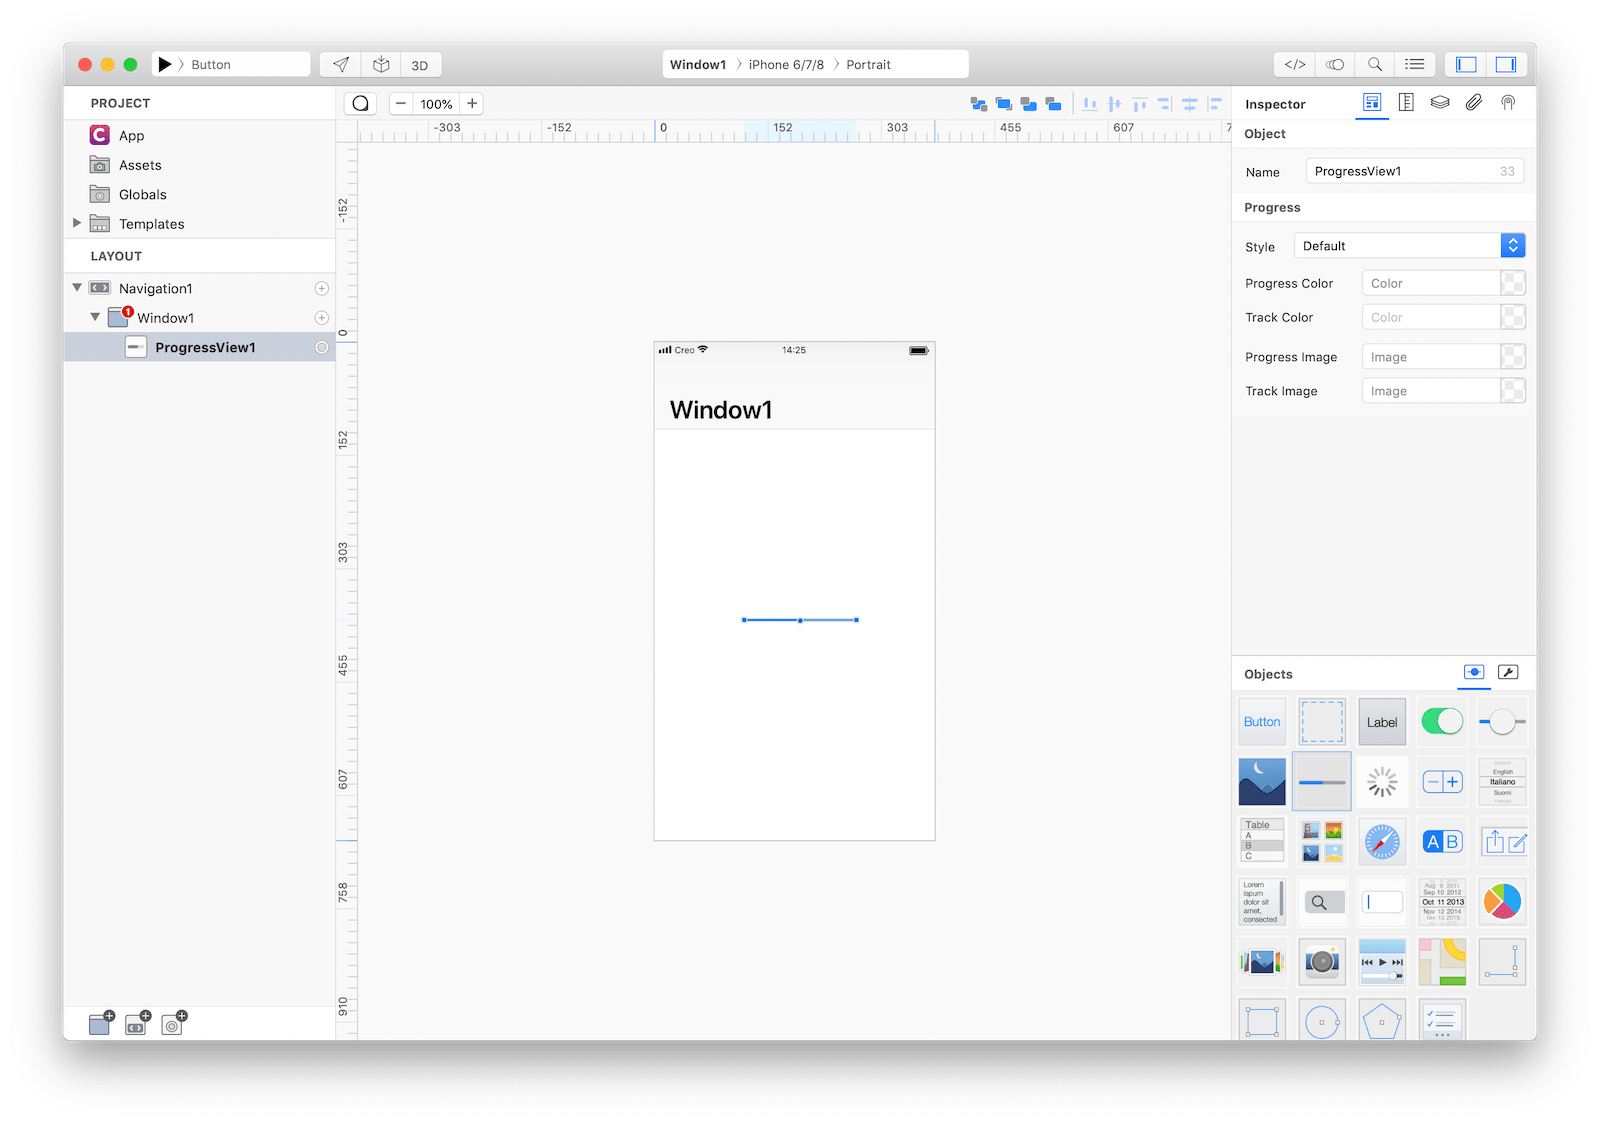
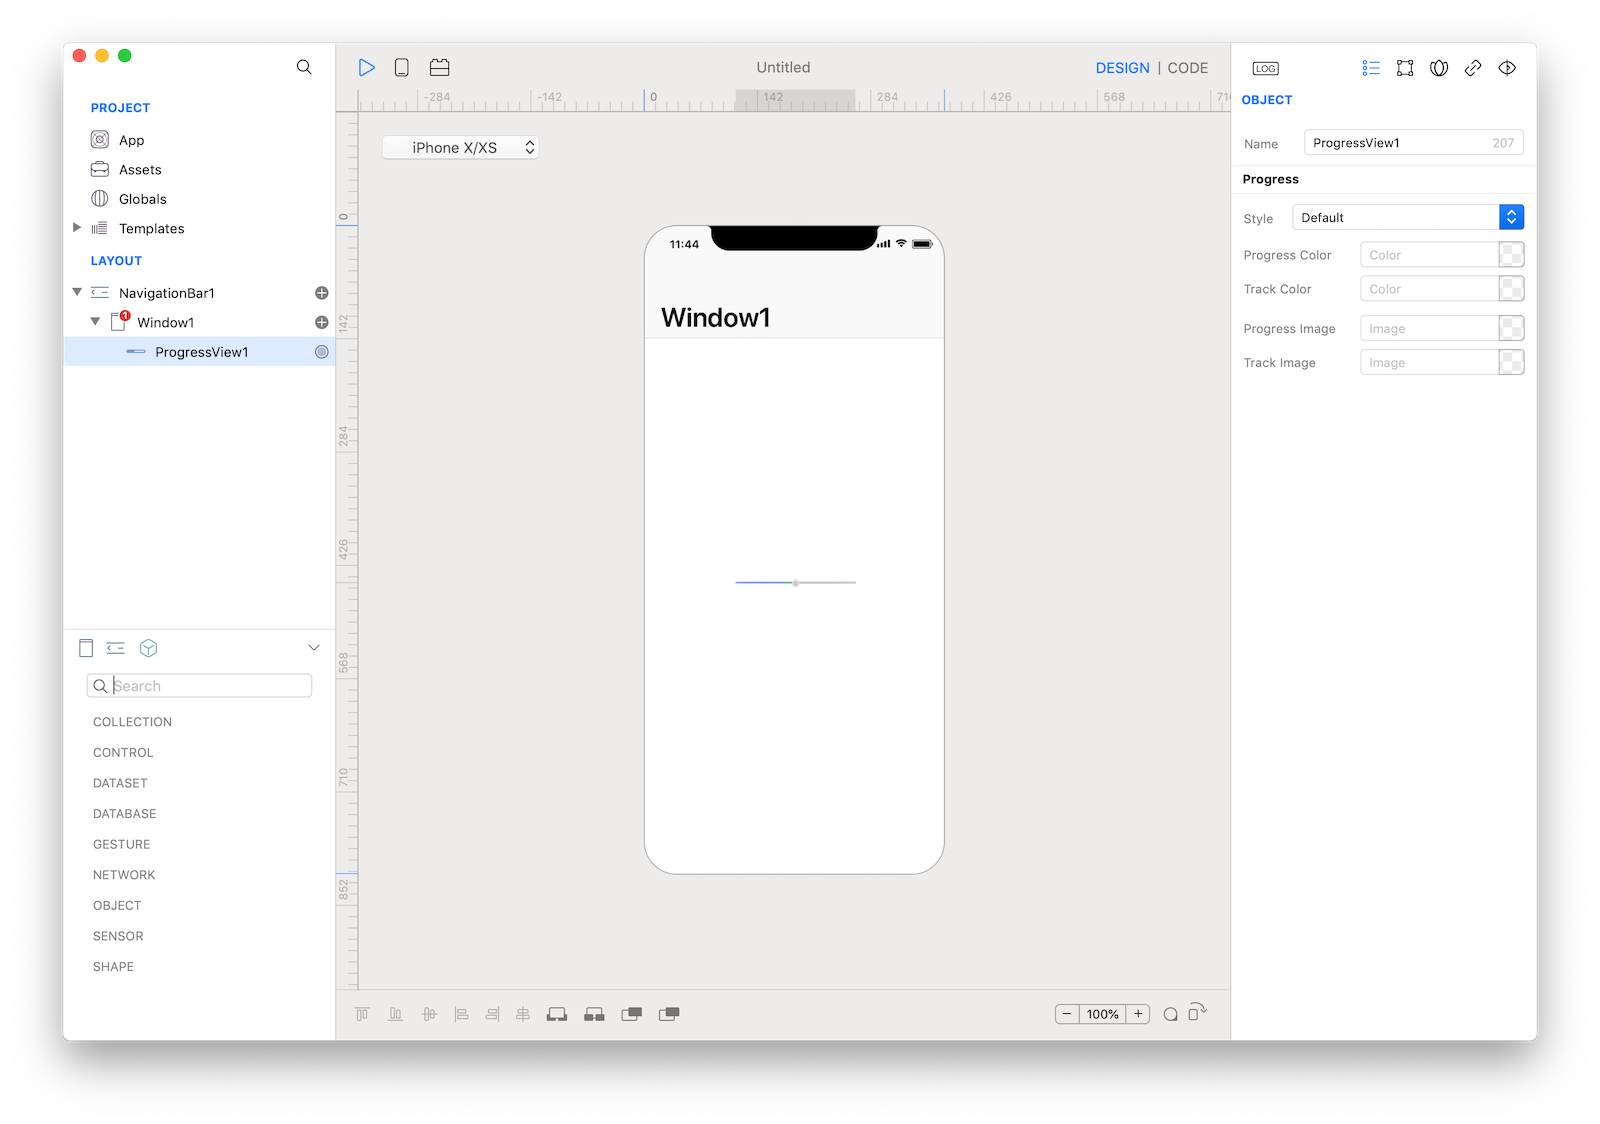
Updated ProgressView for Creo2

diff --git a/docs/creo/ProgressView.md b/docs/creo/ProgressView.md
@@ -1,6 +1,6 @@
 A progress view includes a track that fills from left to right to show the progression of a task with a known duration. Progress views are noninteractive, although they are often accompanied by a button for canceling the corresponding operation.
 
-![ProgressView](../images/creo/progressview1.png)
+![ProgressView](../images/creo2/progressview1.png)
 
 ### Best practices
 * **Always report progress accurately.** Don’t display inaccurate progress information just to make your app appear busy. Only use progress views for tasks that are quantifiable. Otherwise, use an activity indicator.
@@ -12,12 +12,12 @@ A progress view includes a track that fills from left to right to show the progr
 1. Drop a `ProgressView` control from the object panel to a `Window`
 2. Use the `ProgressView Inspector` to customize its properties like `progressViewStyle`
 
-![`ProgressView` inspector](../images/creo/progressview2.png)
+![`ProgressView` inspector](../images/creo2/progressview2.png)
 The inspector where the `ProgressView` class can be configured.
 
 ### Example
 1. Drop a `Button` control from the object panel to a `Window`
-2. Open the `Code Editor` (cmd + 6)
+2. Open the `Code Editor`
 3. Select the `Action` item inside the `Events` area and write your custom code in the `Code Editor`
 ```
 ProgressView1.value = 1.0
